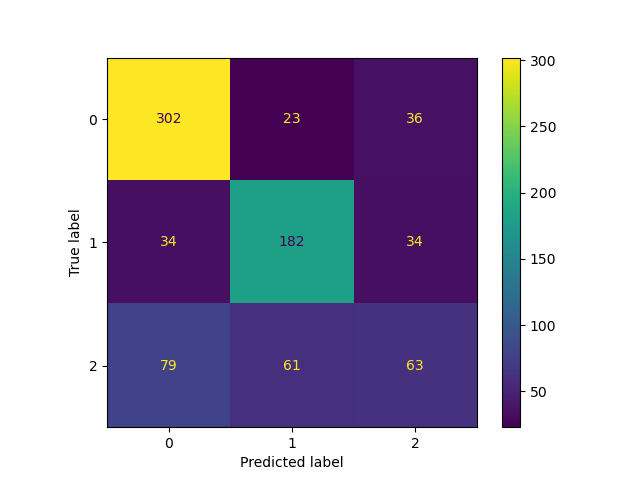
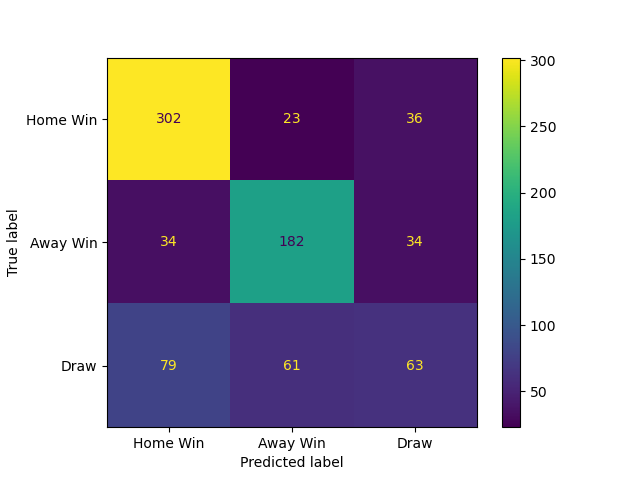
added labels to confusion matrix

diff --git a/best_model.py b/best_model.py
@@ -70,7 +70,7 @@ for idx in sorted_idx:
     print(f"Feature {X_train.columns[idx]}: Importance {feature_importances[idx]:.4f}")
 
 conf_mtx = confusion_matrix(np.array(y_test), np.array(y_pred))
-display = ConfusionMatrixDisplay(conf_mtx)
+display = ConfusionMatrixDisplay(conf_mtx, display_labels=['Home Win', 'Away Win', 'Draw'])
 display.plot()
 plt.show()
 
